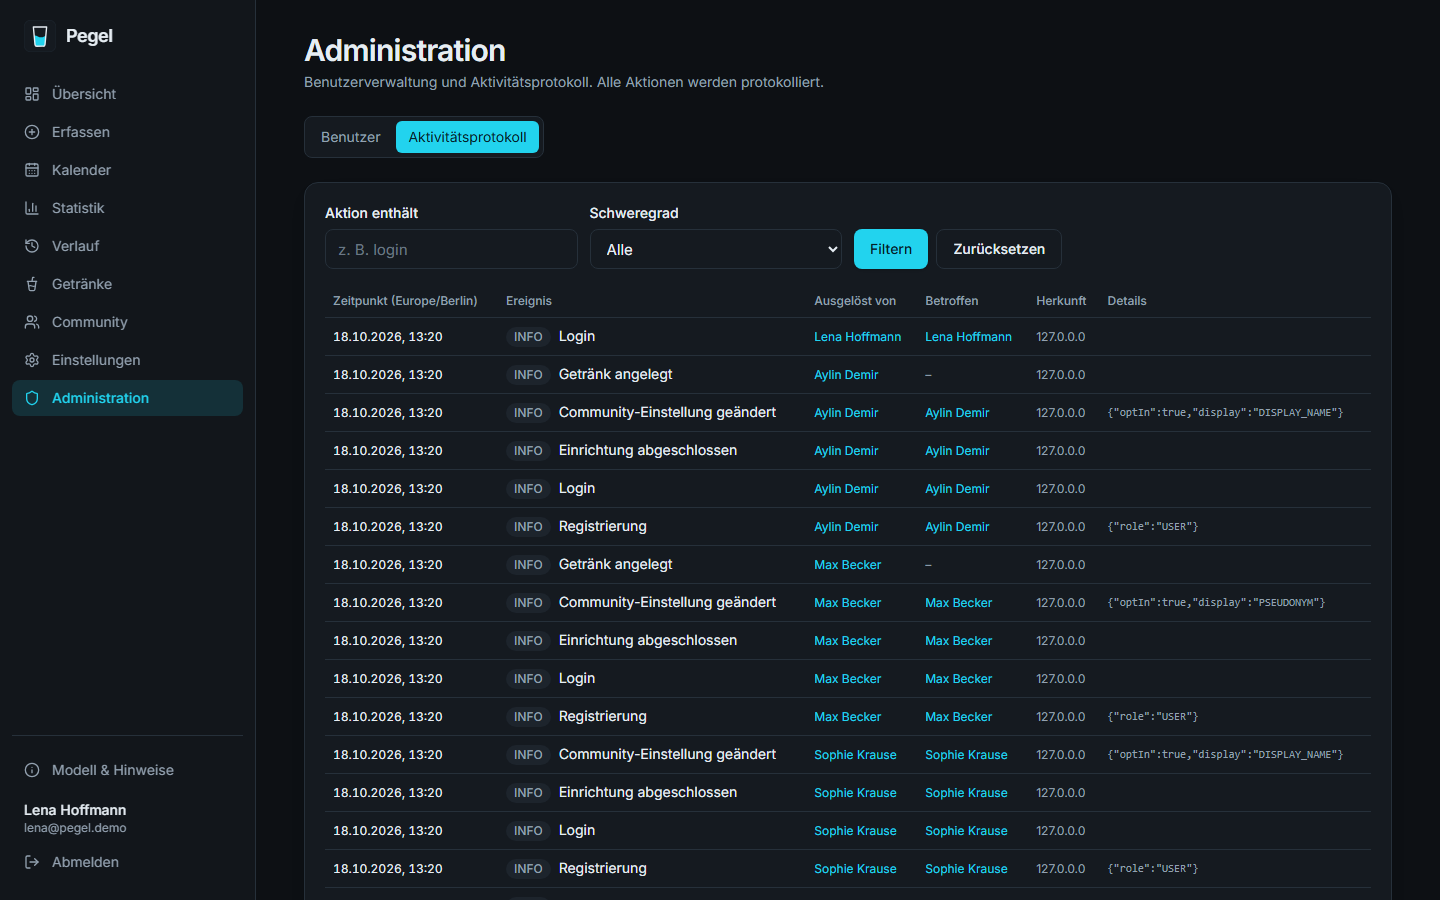
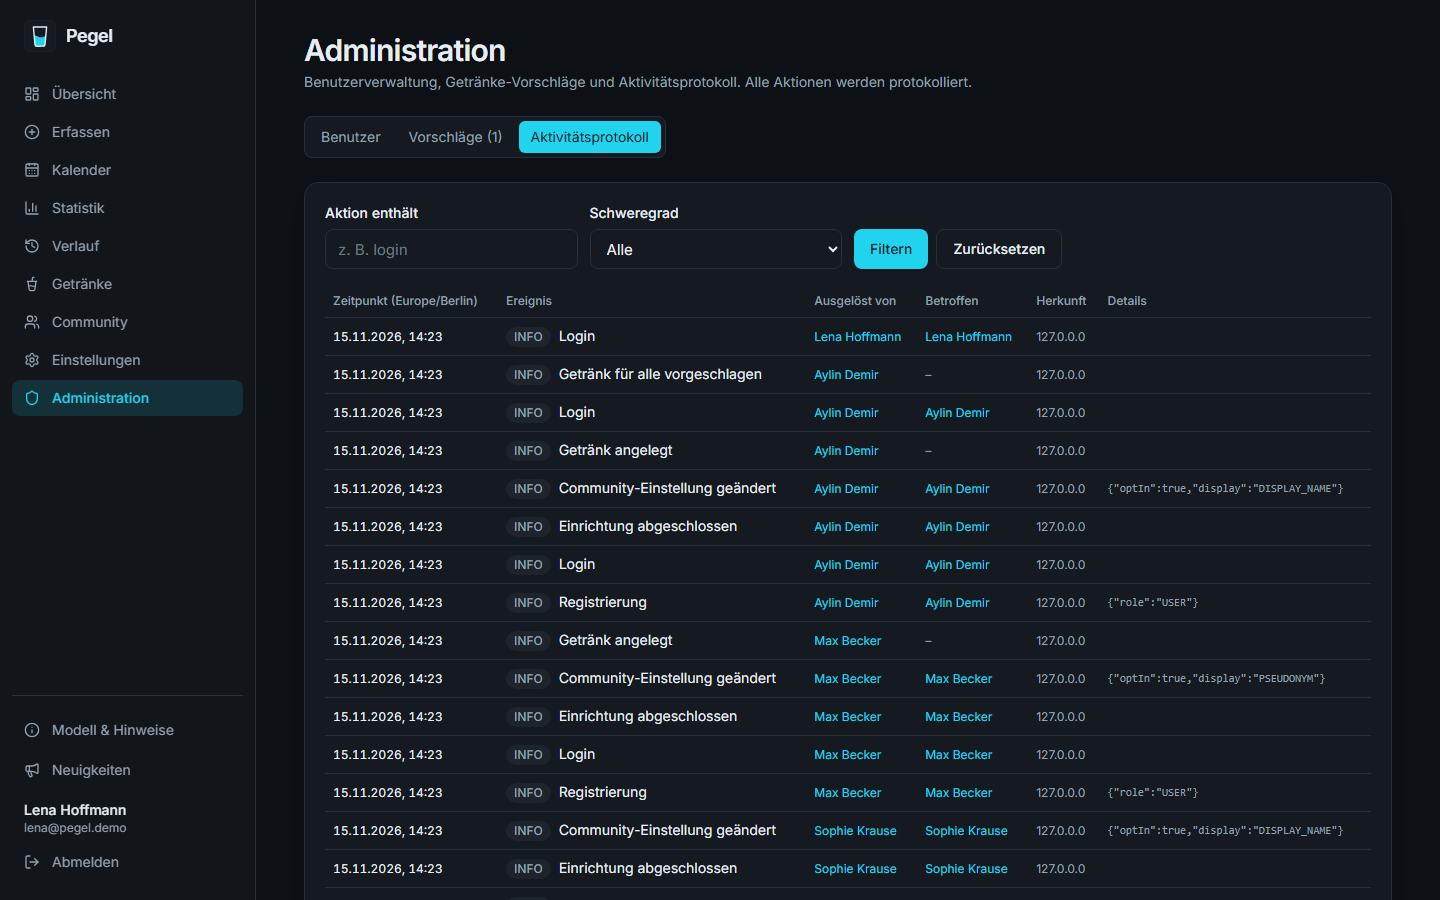
Version 1.5.1: Community-Inaktivität 7 Tage, neue README-Screenshots
- COMMUNITY_INACTIVE_DAYS standardmäßig 7 statt 10; Datenschutzhinweise
  nennen die eingestellte Frist
- Screenshots neu erzeugt (aktuelle Navigation) und um Neuigkeiten,
  Getränke-Vorschläge sowie Handy-Getränke/-Neuigkeiten ergänzt

diff --git a/src/app/(info)/datenschutz/page.tsx b/src/app/(info)/datenschutz/page.tsx
@@ -1,6 +1,7 @@
 import type { Metadata } from "next";
 import { Alert } from "@/components/ui";
 import { ImprintContact, imprintConfigured } from "@/components/imprint-contact";
+import { env } from "@/server/env";
 
 export const metadata: Metadata = { title: "Datenschutz" };
 
@@ -41,7 +42,7 @@ export default function PrivacyPage() {
         Deine Einträge sind nur für dich sichtbar. Administratoren sehen Kontodaten, Aktivitätszeitpunkte und aggregierte Zahlen (z. B. Anzahl der
         Einträge), aber keine einzelnen Konsumeinträge. Die Teilnahme am Community-Ranking ist voreingestellt; du kannst sie bei der Einrichtung und
         jederzeit unter „Community“ abwählen. Angezeigt wird ausschließlich deine Gesamtmenge unter deinem Anzeigenamen oder einem Pseudonym,
-        und nur für angemeldete Benutzer dieser Installation. Warst du 10 Tage nicht in der App, wirst du ausgeblendet, bis du dich wieder anmeldest.
+        und nur für angemeldete Benutzer dieser Installation. Warst du {env.communityInactiveDays} Tage nicht in der App, wirst du ausgeblendet, bis du dich wieder anmeldest.
       </p>
 
       <h2>5. Speicherort und Empfänger</h2>

diff --git a/tests/integration/suggestions-inactivity.test.ts b/tests/integration/suggestions-inactivity.test.ts
@@ -79,7 +79,7 @@ describe("Eigene Getränke für alle vorschlagen", () => {
 });
 
 describe("Community blendet Inaktive aus", () => {
-  it("wer seit über 10 Tagen nicht aktiv war, fehlt im Ranking und kommt mit Aktivität zurück", async () => {
+  it("wer seit über 7 Tagen nicht aktiv war, fehlt im Ranking und kommt mit Aktivität zurück", async () => {
     const viewer = await onboardedUser();
     const active = await onboardedUser();
     const idle = await onboardedUser();
@@ -92,7 +92,7 @@ describe("Community blendet Inaktive aus", () => {
       });
     }
     await prisma.user.updateMany({ where: { id: { in: [viewer.id, active.id, idle.id] } }, data: { communityOptIn: true } });
-    const old = new Date(Date.now() - 11 * 86_400_000);
+    const old = new Date(Date.now() - 8 * 86_400_000);
     await prisma.user.update({ where: { id: idle.id }, data: { lastActiveAt: old, lastLoginAt: old } });
 
     let r = await call(community.GET, { cookie: viewer.cookie, query: { period: "week" } });

diff --git a/src/server/services/community.ts b/src/server/services/community.ts
@@ -38,7 +38,7 @@ export type CommunityPeriod = (typeof COMMUNITY_PERIODS)[number];
  *
  * Definitionen:
  *  - Teilnehmer: aktive Konten mit ausdrücklicher Einwilligung (communityOptIn = true),
- *    die in den letzten COMMUNITY_INACTIVE_DAYS Tagen (Standard 10) aktiv waren.
+ *    die in den letzten COMMUNITY_INACTIVE_DAYS Tagen (Standard 7) aktiv waren.
  *  - "Woche" = letzte 7 × 24 h, "Monat" = letzte 30 × 24 h, "Gesamt" = alle erfassten Einträge.
  *  - Gelöschte Konten: Einträge werden mit dem Konto gelöscht und erscheinen nicht mehr.
  *  - Widerruf der Teilnahme wirkt sofort (Werte werden bei jedem Aufruf neu berechnet).

diff --git a/src/server/env.ts b/src/server/env.ts
@@ -56,7 +56,7 @@ export const env = {
   },
   /** Sparschwein: Euro pro Tag ohne Eintrag, Bonus pro voller Woche am Stück, Bonus pro komplettem Monat */
   /** Teilnehmende ohne Anmeldung/Aktivität seit so vielen Tagen werden in der Community ausgeblendet. */
-  communityInactiveDays: num("COMMUNITY_INACTIVE_DAYS", 10, 1, 365),
+  communityInactiveDays: num("COMMUNITY_INACTIVE_DAYS", 7, 1, 365),
   savings: {
     perDay: num("SAVINGS_PER_DAY", 5, 0, 1000),
     weekBonus: num("SAVINGS_WEEK_BONUS", 10, 0, 1000),

diff --git a/README.md b/README.md
@@ -1,6 +1,6 @@
 # Pegel – Alkohol-Tagebuch
 
-![Next.js 16](https://img.shields.io/badge/Next.js-16-black?logo=nextdotjs) ![TypeScript](https://img.shields.io/badge/TypeScript-5-3178c6?logo=typescript&logoColor=white) ![PostgreSQL 17](https://img.shields.io/badge/PostgreSQL-17-4169e1?logo=postgresql&logoColor=white) ![Prisma 7](https://img.shields.io/badge/Prisma-7-2d3748?logo=prisma) ![Docker](https://img.shields.io/badge/Docker-Compose-2496ed?logo=docker&logoColor=white) ![PWA](https://img.shields.io/badge/PWA-installierbar-5a0fc8) ![License: MIT](https://img.shields.io/badge/License-MIT-yellow.svg) [![Version](https://img.shields.io/badge/Version-1.5.0-informational)](CHANGELOG.md)
+![Next.js 16](https://img.shields.io/badge/Next.js-16-black?logo=nextdotjs) ![TypeScript](https://img.shields.io/badge/TypeScript-5-3178c6?logo=typescript&logoColor=white) ![PostgreSQL 17](https://img.shields.io/badge/PostgreSQL-17-4169e1?logo=postgresql&logoColor=white) ![Prisma 7](https://img.shields.io/badge/Prisma-7-2d3748?logo=prisma) ![Docker](https://img.shields.io/badge/Docker-Compose-2496ed?logo=docker&logoColor=white) ![PWA](https://img.shields.io/badge/PWA-installierbar-5a0fc8) ![License: MIT](https://img.shields.io/badge/License-MIT-yellow.svg) [![Version](https://img.shields.io/badge/Version-1.5.1-informational)](CHANGELOG.md)
 
 > *Self-hosted alcohol diary (German UI): log drinks, statistics, calendar, a transparent Widmark-based BAC **estimate**, a savings jar for alcohol-free days, community ranking, admin area, PWA with push. Runs with `docker compose up -d --build`.*
 
@@ -21,6 +21,8 @@ Selbst gehostete WebApp zum Erfassen des eigenen Alkoholkonsums: persönliche Ge
 | **Getränke** – eigene Getränke, Favoriten, Archiv | **Verlauf** – Filter und Seitennavigation |
 | ![Administration](docs/screenshots/10-admin-benutzer.png) | ![Aktivitätsprotokoll](docs/screenshots/11-admin-protokoll.png) |
 | **Administration** – Benutzer, Status, Aktivität | **Aktivitätsprotokoll** – Sicherheits- und Systemereignisse |
+| ![Getränke-Vorschläge](docs/screenshots/18-admin-vorschlaege.png) | ![Neuigkeiten](docs/screenshots/17-neuigkeiten.png) |
+| **Getränke-Vorschläge** – Freigabe als Standardgetränk | **Neuigkeiten** – Changelog direkt in der App |
 | ![Onboarding](docs/screenshots/15-onboarding-profil.png) | ![Darstellung](docs/screenshots/08-darstellung.png) |
 | **Onboarding** – Berechnungsprofil mit Erklärung | **Darstellung** – Hell/Dunkel/System, 5 Farbschemata |
 
@@ -35,6 +37,7 @@ Selbst gehostete WebApp zum Erfassen des eigenen Alkoholkonsums: persönliche Ge
 | | | | |
 |---|---|---|---|
 | ![Mobil Übersicht](docs/screenshots/30-mobil-dashboard.png) | ![Mobil Erfassen](docs/screenshots/31-mobil-erfassen.png) | ![Mobil Kalender](docs/screenshots/32-mobil-kalender.png) | ![Mobil Community](docs/screenshots/33-mobil-community.png) |
+| ![Mobil Getränke](docs/screenshots/36-mobil-getraenke.png) | ![Mobil Neuigkeiten](docs/screenshots/37-mobil-neuigkeiten.png) | ![Mobil Menü](docs/screenshots/34-mobil-menue.png) | ![Mobil Sunset](docs/screenshots/35-mobil-sunset-dashboard.png) |
 
 Neu erzeugen: Demo-Server starten (`npm run build`, dann `E2E_PORT=3200 node scripts/e2e-server.mjs`), Demo-Daten laden (`DEMO_URL=http://localhost:3200 DATABASE_URL=postgresql://pegel:pegel@127.0.0.1:54332/pegel_e2e node scripts/demo-data.mjs`) und `DEMO_URL=http://localhost:3200 node scripts/screenshots.mjs` ausführen.
 
@@ -48,7 +51,7 @@ Neu erzeugen: Demo-Server starten (`npm run build`, dann `E2E_PORT=3200 node scr
 - **Promille-Schätzung:** zeitabhängiges Widmark-Modell mit Resorption und Abbau, mehreren Getränken, Unsicherheitsspanne und rechnerischem Nullzeitpunkt – inkl. Verlaufsdiagramm ([Modell](docs/BERECHNUNG.md)).
 - **Statistik & Kalender:** Tages-, Wochen- und Monatsübersichten, Kategorien, Wochentage, Vergleich mit dem Vorzeitraum; Monats-/Wochenkalender mit Tagesdetails.
 - **Sparschwein:** 5 € je Tag ohne Alkohol, +10 € je volle Woche am Stück, +20 € je ganzer Monat (konfigurierbar).
-- **Community:** Ranking nach Sparschwein und nach Menge, mit Anzeigename oder Pseudonym, jederzeit abwählbar. Wer 10 Tage nicht aktiv war, wird ausgeblendet.
+- **Community:** Ranking nach Sparschwein und nach Menge, mit Anzeigename oder Pseudonym, jederzeit abwählbar. Wer 7 Tage nicht aktiv war, wird ausgeblendet.
 - **Getränke-Vorschläge:** Eigene Getränke für alle vorschlagen; die Administration gibt sie als Standardgetränk frei oder lehnt mit Begründung ab.
 - **Administration:** Benutzer anlegen (Einladungslink oder Startpasswort), aktivieren/deaktivieren, Rollen, Sitzungen widerrufen, Reset-Links, Aktivitäts- und Sicherheitsprotokoll.
 - **Sicherheit & Datenschutz:** Datenbanksitzungen mit „Angemeldet bleiben“, Rate-Limits, CSP, CSRF-Schutz, Datenexport und Kontolöschung, keine Tracker.
@@ -145,7 +148,7 @@ Alle Einstellungen über `.env` (Vorlage: [.env.example](.env.example)). Secrets
 | `DEFAULT_TIMEZONE` | – | Standard-Zeitzone neuer Konten |
 | `MODEL_BETA_PER_HOUR` | – | Abbaurate β (Standard 0,15 ‰/h) |
 | `MODEL_ABSORPTION_MINUTES` | – | Resorptionsdauer je Getränk (Standard 30) |
-| `COMMUNITY_INACTIVE_DAYS` | – | Tage ohne Anmeldung/Aktivität, nach denen Teilnehmende in der Community ausgeblendet werden (10) |
+| `COMMUNITY_INACTIVE_DAYS` | – | Tage ohne Anmeldung/Aktivität, nach denen Teilnehmende in der Community ausgeblendet werden (7) |
 | `SAVINGS_PER_DAY` / `SAVINGS_WEEK_BONUS` / `SAVINGS_MONTH_BONUS` | – | Sparschwein in Euro: je Tag ohne Eintrag (5), je volle Woche am Stück (10), je kompletter Kalendermonat (20) |
 | `IMPRINT_NAME/STREET/CITY/COUNTRY/EMAIL/PHONE` | – | Angaben für Impressum und Verantwortlichen in den Datenschutzhinweisen – bewusst nur in der `.env`, nicht im Quellcode |
 | `SMTP_*` | – | Optionaler E-Mail-Versand (Bestätigung, Passwort-Reset) |

diff --git a/CHANGELOG.md b/CHANGELOG.md
@@ -6,6 +6,12 @@ Alle nennenswerten Änderungen an Pegel. Format nach [Keep a Changelog](https://
 
 ## [Unveröffentlicht]
 
+## [1.5.1] – 2026-11-15
+
+### Geändert
+- **Community:** Inaktive Teilnehmende werden schon nach 7 statt 10 Tagen ausgeblendet (`COMMUNITY_INACTIVE_DAYS`, Standard jetzt 7). Die Datenschutzhinweise nennen die eingestellte Frist.
+- **README-Screenshots erneuert:** aktuelle Navigation, neue Bilder für Neuigkeiten, Getränke-Vorschläge sowie Getränke und Neuigkeiten auf dem Handy.
+
 ## [1.5.0] – 2026-11-15
 
 ### Hinzugefügt
@@ -13,7 +19,7 @@ Alle nennenswerten Änderungen an Pegel. Format nach [Keep a Changelog](https://
 - **Freigabe durch die Administration:** Neuer Bereich Administration → Vorschläge (mit Zähler). Freigegebene Getränke werden sofort für alle verfügbar, bestehende Einträge bleiben erhalten. Bei Ablehnung sieht die Person die Begründung und kann nach einer Korrektur erneut vorschlagen. Alles wird protokolliert.
 
 ### Geändert
-- **Community ohne Karteileichen:** Wer seit 10 Tagen weder angemeldet noch aktiv war, wird im Mengen- und Sparschwein-Ranking ausgeblendet und erscheint mit der nächsten Anmeldung automatisch wieder. Die Frist ist über `COMMUNITY_INACTIVE_DAYS` einstellbar.
+- **Community ohne Karteileichen:** Wer seit 10 Tagen (ab 1.5.1: 7 Tagen) weder angemeldet noch aktiv war, wird im Mengen- und Sparschwein-Ranking ausgeblendet und erscheint mit der nächsten Anmeldung automatisch wieder. Die Frist ist über `COMMUNITY_INACTIVE_DAYS` einstellbar.
 - **Neuigkeiten, Hilfe und Rechtliches:** Die Kopfzeile mit „Zur App“ bleibt beim Scrollen stehen.
 
 ### Behoben
